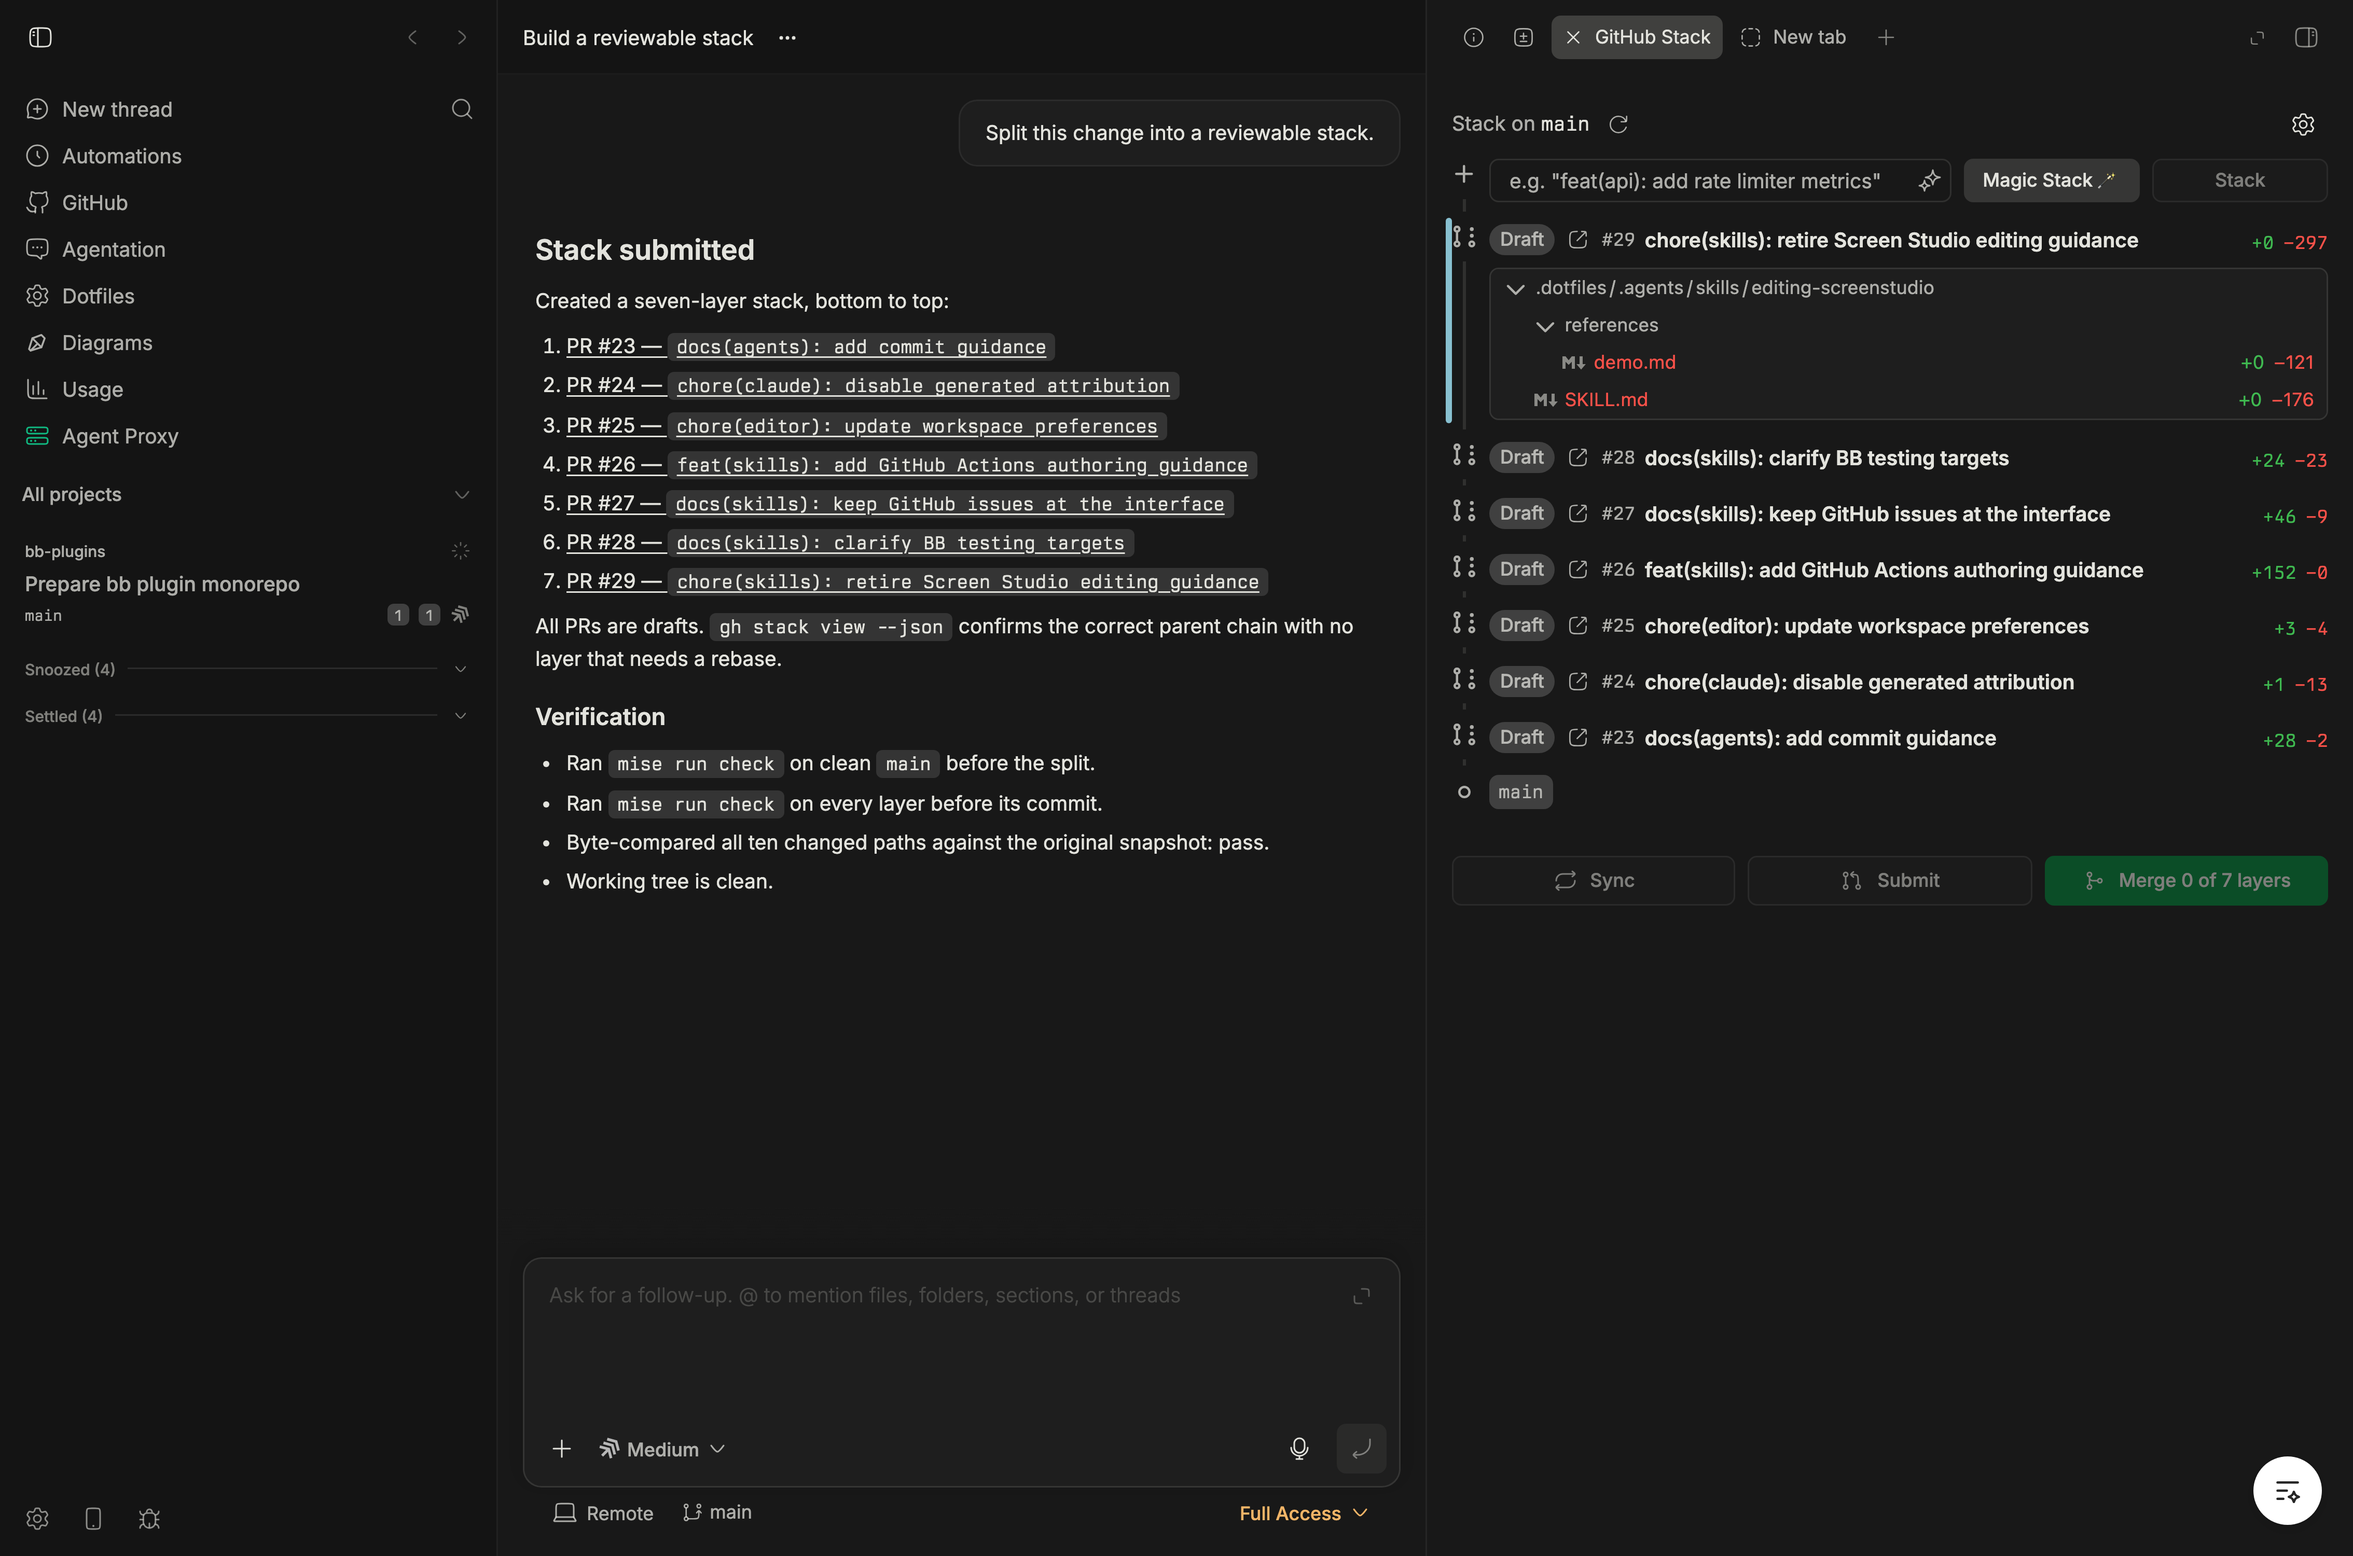
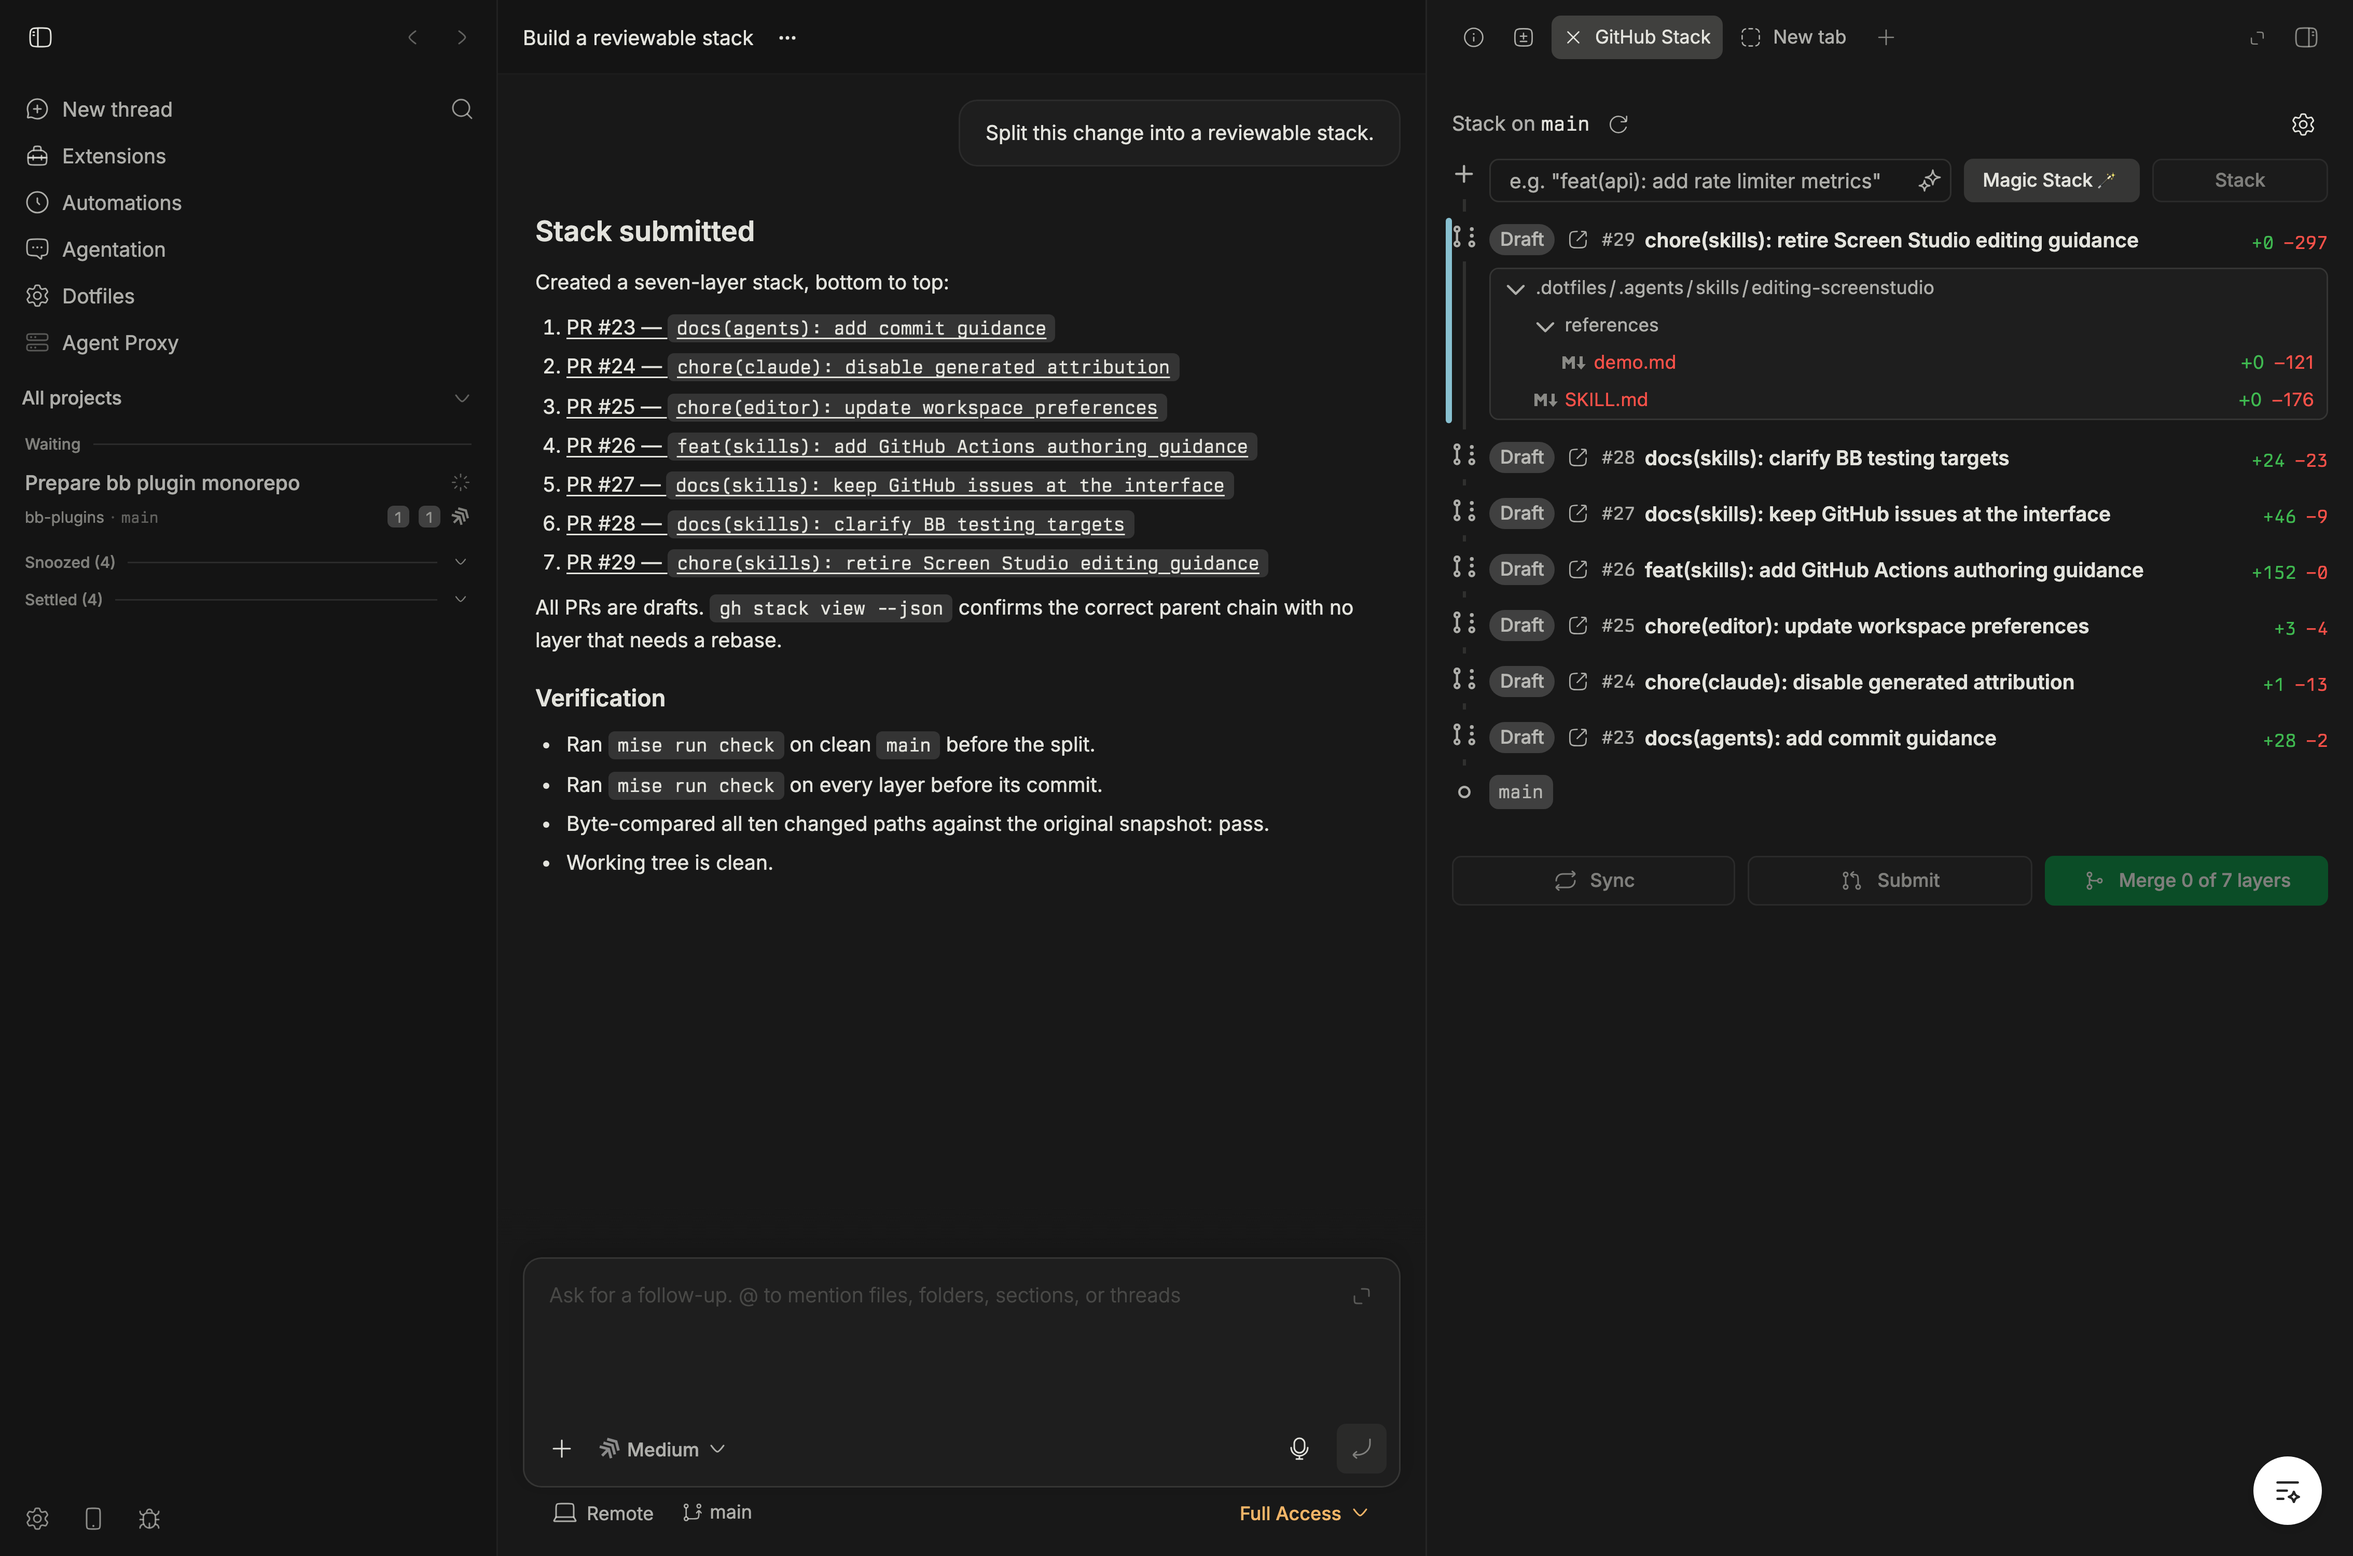
docs(media): recapture screenshots on bb 0.38 and correct two stale claims
The fixture and hero runs both re-ran against the pinned dev instance, so
every capture that shows bb's shell now carries 0.38's sidebar: the
Extensions row leads the plugin panels, and the thread list draws
t3sidebar's Waiting / Snoozed / Settled shelves.

Two things the old art asserted were not true of the plugins:

- t3sidebar's hero guide taught an "Inbox, newest first" model. The
  plugin renders Next Action and Waiting shelves, each oldest first. The
  guide now names all four shelves with the counts the capture shows,
  including the empty Next Action that the disappear-when-empty rule
  hides.
- agent-proxy's hero alt described a sidebar row tinted green. That
  composition is two Agent Proxy pages, Home beside Agents.

diff --git a/scripts/plugin-screenshots.ts b/scripts/plugin-screenshots.ts
@@ -197,13 +197,14 @@ function t3sidebar(): string {
   return `
     <div class="composition t3-composition">
       <figure class="capture t3-sidebar">
-        ${media("t3sidebar", "sidebar.png", "capture-image", "The t3sidebar inbox with current, snoozed, and settled threads")}
+        ${media("t3sidebar", "sidebar.png", "capture-image", "The t3sidebar inbox with waiting, snoozed, and settled threads")}
       </figure>
       <div class="shelf-guide">
         <div class="guide-intro"><span>STABLE BY DESIGN</span><h2>The list moves<br />when you move it</h2></div>
-        <div class="guide-row"><i>01</i><div><b>Inbox</b><span>Newest first. Status stays inside the card</span></div><em>active</em></div>
-        <div class="guide-row"><i>02</i><div><b>Snoozed</b><span>Hidden until its wake time or new activity</span></div><em>3</em></div>
-        <div class="guide-row"><i>03</i><div><b>Settled</b><span>Archived work, collapsed into one shelf</span></div><em>12</em></div>
+        <div class="guide-row"><i>01</i><div><b>Next Action</b><span>Your turn. Oldest handoff first</span></div><em>empty</em></div>
+        <div class="guide-row"><i>02</i><div><b>Waiting</b><span>The agent is working. Oldest wait first</span></div><em>1</em></div>
+        <div class="guide-row"><i>03</i><div><b>Snoozed</b><span>Hidden until its wake time or new activity</span></div><em>4</em></div>
+        <div class="guide-row"><i>04</i><div><b>Settled</b><span>Archived work, collapsed into one shelf</span></div><em>4</em></div>
       </div>
       <div class="t3-pointer"><span></span><b>one flat inbox</b></div>
     </div>`;

diff --git a/plugins/agent-proxy/README.md b/plugins/agent-proxy/README.md
@@ -15,7 +15,7 @@
 
 </div>
 
-<picture><img src="docs/media/hero.png" alt="The Agent Proxy core page with the proxy running, beside bb's sidebar where the Agent Proxy row is tinted green while every other plugin stays grey" width="100%" /></picture>
+<picture><img src="docs/media/hero.png" alt="The Agent Proxy core page with CLIProxyAPI running on one local port, beside the Agents page wiring Claude Code and Codex to it" width="100%" /></picture>
 
 Agent Proxy installs [CLIProxyAPI](https://github.com/router-for-me/CLIProxyAPI) on
 the machine that runs the bb server and gives it a management UI inside bb.

diff --git a/plugins/t3sidebar/README.md b/plugins/t3sidebar/README.md
@@ -16,7 +16,7 @@
 </div>
 
 <div align="center">
-<picture><img src="docs/media/hero.png" alt="The t3sidebar inbox with active and parked thread sections" width="100%" /></picture>
+<picture><img src="docs/media/hero.png" alt="The t3sidebar inbox beside its shelf model: Next Action, Waiting, Snoozed, and Settled" width="100%" /></picture>
 </div>
 
 t3sidebar replaces the scrolling thread list in bb's left sidebar with an inbox.
